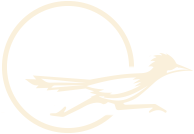
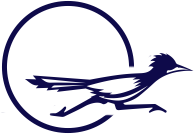
header changes

Changed region(s): [[0.1237, 0.3881, 1.0, 0.8955], [0.0, 0.0, 0.7113, 1.0]]

diff --git a/FinalProject/directory.html b/FinalProject/directory.html
@@ -1,0 +1,83 @@
+<!DOCTYPE html>
+<html lang="en">
+<head>
+    <meta charset="UTF-8">
+    <meta http-equiv="X-UA-Compatible" content="IE=edge">
+    <meta name="viewport" content="width=device-width, initial-scale=1.0">
+    <link rel="stylesheet" href="css/normalize.css">
+    <link rel="stylesheet" href="css/styles.css">
+    <link rel="stylesheet" href="css/medium.css">
+    <link rel="stylesheet" href="css/large.css">
+    <link rel="preconnect" href="https://fonts.googleapis.com">
+    <link rel="preconnect" href="https://fonts.gstatic.com" crossorigin>
+    <link href="https://fonts.googleapis.com/css2?family=Alfa+Slab+One&family=Lato:ital,wght@0,400;0,700;1,300;1,400&family=Pacifico&display=swap" rel="stylesheet">    
+    <meta name="description" content="Elise Christensen's Chamber of Commerce - Tucson Assignment">
+    <title>Tucson Chamber of Commerce Sample Site</title>
+    <script src="js/index.js" defer></script>
+
+</head>
+<body>
+    <main>
+<header>
+    <div class="headerLeft">
+       <div>
+        <img src="images/roadrunnericon.png" alt="roadrunner icon" class="icon">
+        <img src="images/roadrunnericon_mobile.png" alt="roadrunner icon" class="icon_mobile">
+        
+    </div>
+    <h1>Tucson, Arizona</h1>
+    <h2> Chamber of Commerce</h2>
+    </div>
+    <div class="headerRight">
+        <h3>Today's Weather:</h3>
+       
+        <p>
+            <span id="temp"></span> 
+             <span id="desc"></span>
+             <span id="humid"></span>
+         </p>
+        
+    </div>
+</header>
+
+<nav>
+    <ul class="navigation">
+        <li><a class="ham" href="#">&#9776;</a></li>
+        <li ><a href="/FinalProject/index.html"> Home</a></li>
+        <li><a href="#">Tucson</a></li>
+        <li><a href="#">Join</a></li>
+        <li class="active"><a href="/FinalProject/directory.html">Directory</a></li>
+        <li><a href="#">Contact</a></li>
+
+
+    </ul>
+</nav>
+
+<div class="homephotos">
+    <img src="images/homephoto_theater-min.png" alt="downtown movie theater">
+    <img src="images/homephoto_pizza-min.png" alt="pizza restaurant">
+    <img src="images/homephoto_butterflies-min.png" alt="butterfly mural">
+    <img src="images/homephoto_crescent-min.png" alt="crescent store sign">
+
+</div>
+<div class="maincontent">
+    <div>
+      <h1>Directory</h1>
+      <p>Welcome to our directory, please take a look at the various local businesses here. See our Join page if you would like to add your business to our community!</p>
+
+
+    </div>
+  </div>
+    
+<footer>
+
+
+<p>&#169; <span id="year"></span> | Elise Christensen | Nevada | <a href="https://www.byui.edu/online">BYUI Online Learning</a></p>
+<p>Photo credits: Ashley Maxwell |  <a href="https://flyclipart.com/road-runner-icons-noun-project-roadrunner-png-244530">Road Runner Icon</a></p>
+<p>Last Modified: <span id="lastmod"></span></p>
+
+
+</footer>
+</main>
+</body>
+</html>

diff --git a/FinalProject/index.html b/FinalProject/index.html
@@ -20,10 +20,14 @@
     <main>
 <header>
     <div class="headerLeft">
-    <img src="images/roadrunnericon.png" alt="roadrunner icon" class="icon">
-    <h1>Tucson, Arizona</h1>
-    <h2> Chamber of Commerce</h2>
-    </div>
+        <div>
+         <img src="images/roadrunnericon.png" alt="roadrunner icon" class="icon">
+         <img src="images/roadrunnericon_mobile.png" alt="roadrunner icon" class="icon_mobile">
+         
+     </div>
+     <h1>Tucson, Arizona</h1>
+     <h2> Chamber of Commerce</h2>
+     </div>
     <div class="headerRight">
         <h3>Today's Weather:</h3>
        
@@ -39,10 +43,10 @@
 <nav>
     <ul class="navigation">
         <li><a class="ham" href="#">&#9776;</a></li>
-        <li class="active"><a href="#"> Home</a></li>
+        <li class="active"><a href="/FinalProject/index.html"> Home</a></li>
         <li><a href="#">Tucson</a></li>
         <li><a href="#">Join</a></li>
-        <li><a href="#">Directory</a></li>
+        <li><a href="/FinalProject/directory.html">Directory</a></li>
         <li><a href="#">Contact</a></li>
 
 
@@ -133,6 +137,8 @@
 <p>&#169; <span id="year"></span> | Elise Christensen | Nevada | <a href="https://www.byui.edu/online">BYUI Online Learning</a></p>
 <p>Photo credits: Ashley Maxwell |  <a href="https://flyclipart.com/road-runner-icons-noun-project-roadrunner-png-244530">Road Runner Icon</a></p>
 <p>Last Modified: <span id="lastmod"></span></p>
+
+
 </footer>
 </main>
 </body>

diff --git a/FinalProject/css/medium.css b/FinalProject/css/medium.css
@@ -42,15 +42,29 @@
    }
    .headerLeft {
        width: 74%;
-       background-color: #0E0A4A;
-       padding-bottom: 10px;
-   }
+       background-image: linear-gradient(#FAF0DB, #A28F80);
+     
+       border: 5px solid #0E0A4A;
+    }
+
+    .headerLeft h1, h2{
+        color: #0E0A4A!important;
+
+    }
+  
    .headerRight {
        width: 25%;
 
        background-color: #086375;
        margin-top: 0px;
        margin-right: 0px;
+   }
+
+   img.icon {
+       display: block;
+   }
+   img.icon_mobile {
+       display: none;
    }
 
    #temp {

diff --git a/FinalProject/css/styles.css b/FinalProject/css/styles.css
@@ -4,6 +4,15 @@ header {
     flex-direction: column;
 }
 
+img.icon {
+    display: none;
+}
+
+
+img.icon_mobile {
+    display: block;
+}
+
 header img {
     width: 30%;
     max-width: 194px;
@@ -144,6 +153,7 @@ nav a:hover {
 
 main {
     padding-top: 1em;
+ 
 }
 
 main h1 {
